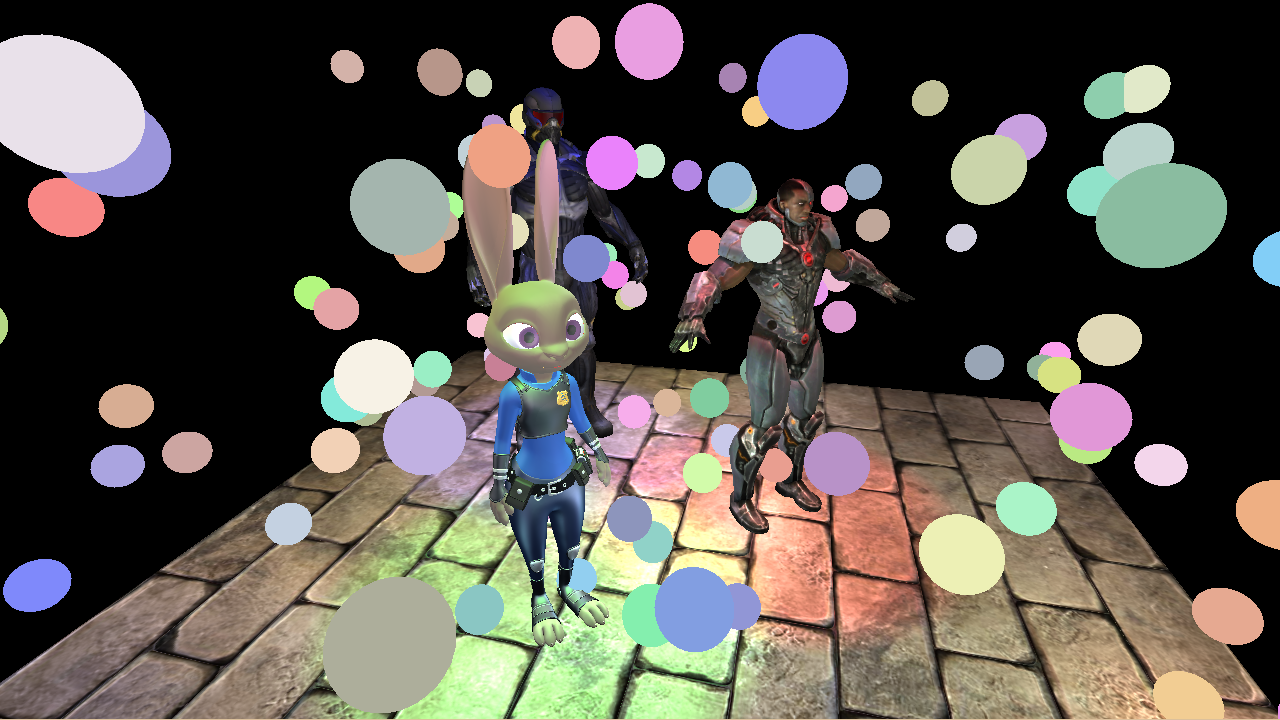
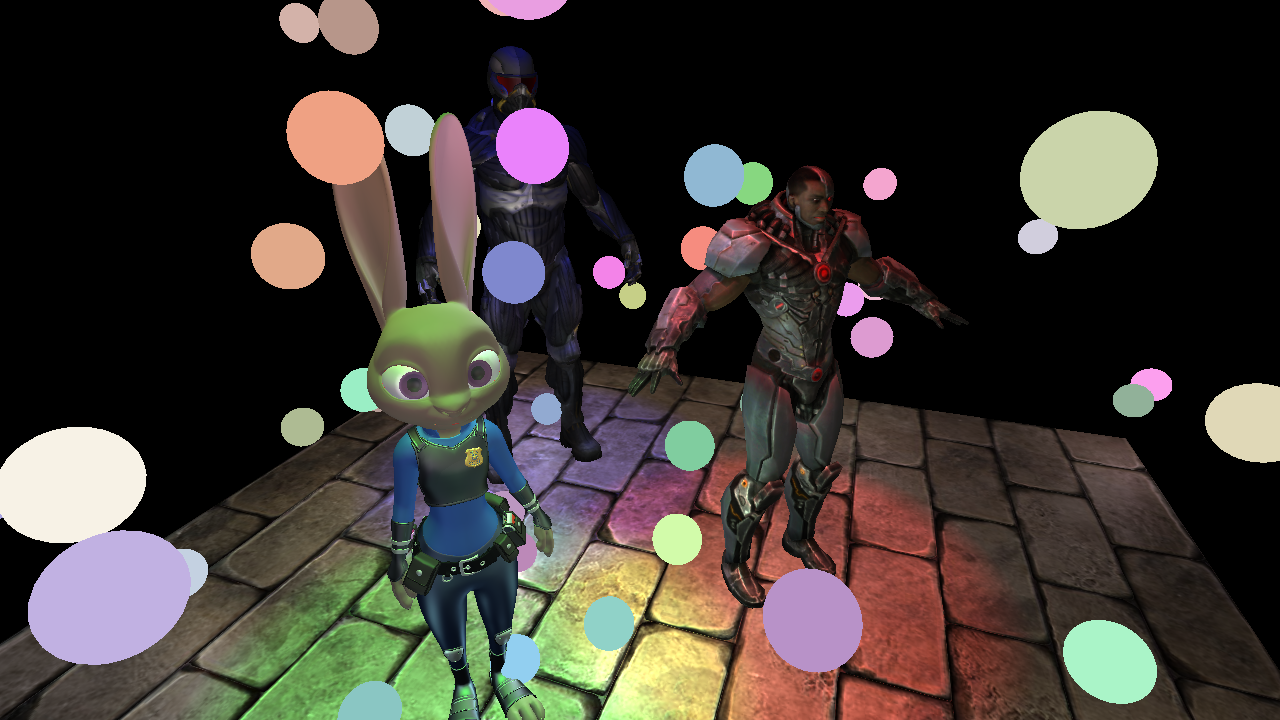
UPDATE: bug fix
Fix deferred shader bug. now we have a constant value in shader. not a
padding data(position.w)

diff --git a/src/RedFox/GL/rf_compositor_gl.cpp b/src/RedFox/GL/rf_compositor_gl.cpp
@@ -55,13 +55,9 @@ void RfCompositorGL::initialize(const RfSize& fboSize)
     _gBuffer->initialize(fboSize);
 
     _lightManager = RfLightManagerGL::getInstance();
-    _lightBulbShader = new RfShaderGL("shader/glsl/light_bulb.vert", "shader/glsl/light_bulb.frag");
-    _lightBulbModel = new RfModelGL("models/sphere/sphere.obj");
-    _lightBulb = new RfObjectGL(_lightBulbModel);
-    _lightBulb->scale(RfPoint3(0.1f, 0.1f, 0.1f));
 
     //*
-    const GLuint NR_LIGHTS = 128;
+    const GLuint NR_LIGHTS = 64;
     srand(7);
     for (GLuint i = 0; i < NR_LIGHTS; i++) {
 
@@ -96,10 +92,11 @@ void RfCompositorGL::initialize(const RfSize& fboSize)
     //*
     _testLight2 = new RfDirLightGL(
         RfVector3(0, -1, 0),
-        RfColor::make_RGBA32(0x3F, 0x3F, 0x3F, 0xFF)
+        RfColor::make_RGBA32(0x1F, 0x1F, 0x1F, 0xFF)
     );
     //*/
 
+    //*
     _testLightR = new RfSpotLightGL(
         RfPoint3(1, 8, 1),
         RfVector3(0, -1, 0),
@@ -117,6 +114,7 @@ void RfCompositorGL::initialize(const RfSize& fboSize)
         RfVector3(0, -1, 0),
         RfColor::make_RGBA32(0x00, 0x00, 0xFF, 0xFF)
     );
+    //*/
 }
 
 void RfCompositorGL::resize(const RfSize & fboSize)
@@ -171,9 +169,6 @@ void RfCompositorGL::prepareFrame(const RfSize& frameSize)
     glClearColor(0.0f, 0.0f, 0.0f, 1.0f);
     glClearDepth(1.0f);
     glClearStencil(0);
-
-    // IT IS NESSESARY.
-    glClear(GL_COLOR_BUFFER_BIT | GL_DEPTH_BUFFER_BIT | GL_STENCIL_BUFFER_BIT);
 
     RF_GL_CHECK_ERROR();
 }
@@ -253,14 +248,14 @@ void RfCompositorGL::postProcess()
     _quad->draw();
 
     //*
-    // 2.5. Copy content of geometry's depth buffer to default framebuffer's depth buffer
+    // Copy content of geometry's depth buffer to default framebuffer's depth buffer
     glBindFramebuffer(GL_READ_FRAMEBUFFER, _gBuffer->getId());
     glBindFramebuffer(GL_DRAW_FRAMEBUFFER, 0); // Write to default framebuffer
     glBlitFramebuffer(0, 0, 1280, 720, 0, 0, 1280, 720, GL_DEPTH_BUFFER_BIT, GL_NEAREST);
     glBindFramebuffer(GL_FRAMEBUFFER, 0);
     //*/
-    _currentShader = _lightBulbShader;
-    _lightManager->drawLightBulb(_lightBulbShader, _lightBulb);
+
+    _lightManager->drawLightBulb();
 
     RF_GL_CHECK_ERROR();
 }

diff --git a/src/RedFox/GL/rf_light_manager_gl.cpp b/src/RedFox/GL/rf_light_manager_gl.cpp
@@ -5,6 +5,7 @@ RfLightManagerGL - Implementation
 #include "zpd.h"
 
 #include "rf_state_gl.h"
+#include "rf_compositor_gl.h"
 
 using namespace zootopia;
 
@@ -46,6 +47,12 @@ RfLightManagerGL::RfLightManagerGL()
         nullptr);
     _spotLightBuffer->setIndex(S_LIGHT_BUFFER_INDEX);
     _spotLightBuffer->unbind();
+
+    // light bulb. (for debugging)
+    _lightBulbShader = new RfShaderGL("shader/glsl/light_bulb.vert", "shader/glsl/light_bulb.frag");
+    _lightBulbModel = new RfModelGL("models/sphere/sphere.obj");
+    _lightBulb = new RfObjectGL(_lightBulbModel);
+    _lightBulb->scale(RfPoint3(0.1f, 0.1f, 0.1f));
 }
 
 
@@ -74,17 +81,18 @@ void RfLightManagerGL::destroy()
 }
 
 
-void RfLightManagerGL::drawLightBulb(RfShaderGL* lightBulbShader, RfObjectGL* lightBulb)
+void RfLightManagerGL::drawLightBulb()
 {
-    lightBulbShader->use();
+    _lightBulbShader->use();
+    RfCompositorGL::_currentShader = _lightBulbShader;
 
     for (auto pointLight : _pointLights) {
-        lightBulb->setPosition(pointLight->getPosition());
-        lightBulb->scale(RfPoint3(0.2f, 0.2f, 0.2f));
+        _lightBulb->setPosition(pointLight->getPosition());
+        _lightBulb->scale(RfPoint3(0.2f, 0.2f, 0.2f));
         const RfVector3 lightColor = pointLight->getColor();
-        glUniform3f(glGetUniformLocation(lightBulbShader->getShaderProgObj(), "lightColor"),
+        glUniform3f(glGetUniformLocation(_lightBulbShader->getShaderProgObj(), "lightColor"),
             lightColor.x, lightColor.y, lightColor.z);
-        lightBulb->draw();
+        _lightBulb->draw();
     }
 }
 
@@ -110,7 +118,6 @@ void RfLightManagerGL::_insertLight(RfLight * light)
             0,
             sizeof(RfDirLight::Data) * _dirLights.size()
         );
-
         _dirLightBuffer->unbind();
 
         break;

diff --git a/include/RedFox/rf_compositor_gl.h b/include/RedFox/rf_compositor_gl.h
@@ -35,11 +35,12 @@ namespace zootopia {
 
     class RfCompositorGL : public RfCompositor {
 
-        // IS THIS GOOD?
+        // IS THIS GOOD? NOPE.
         // FOR _displayCamera, _deferredShader.
         friend class RfMeshGL;
         friend class RfObjectGL;
         friend class RfGridGL;
+        friend class RfLightManagerGL;
 
     public:
 
@@ -101,12 +102,6 @@ namespace zootopia {
         RfSpotLight*        _testLightB;
 
         RfLightManagerGL*   _lightManager;
-
-        // Light Bulb
-        RfShaderGL*     _lightBulbShader;
-
-        RfModelGL*      _lightBulbModel;
-        RfObjectGL*     _lightBulb;
 
     };
 

diff --git a/include/RedFox/rf_light_manager_gl.h b/include/RedFox/rf_light_manager_gl.h
@@ -37,7 +37,7 @@ namespace zootopia {
         static RfLightManagerGL* getInstance();
         void destroy();
 
-        void drawLightBulb(RfShaderGL* lightBulbShader, RfObjectGL* lightBulb);
+        void drawLightBulb();
 
     private:
 
@@ -48,6 +48,11 @@ namespace zootopia {
         RfShaderStorageBufferGL*    _dirLightBuffer;
         RfShaderStorageBufferGL*    _pointLightBuffer;
         RfShaderStorageBufferGL*    _spotLightBuffer;
+
+        // Light Bulb
+        RfShaderGL*     _lightBulbShader;
+        RfModelGL*      _lightBulbModel;
+        RfObjectGL*     _lightBulb;
 
     };
 

diff --git a/src/RedFox/GL/rf_point_light_gl.cpp b/src/RedFox/GL/rf_point_light_gl.cpp
@@ -28,9 +28,9 @@ RfPointLightGL::RfPointLightGL(
     _maxBrightness = std::max(std::max((_values.color.x), (_values.color.y)), (_values.color.z));
 
     // http://www.ogre3d.org/tikiwiki/tiki-index.php?page=-Point+Light+Attenuation
-    _values.constant = 1.0f; // should be 1.0f
-    _values.linear = 0.7f;
-    _values.quadratic = 1.8f;
+    _values.constant = 1.0f;
+    _values.linear = 0.22f;
+    _values.quadratic = 0.2f;
 
     _values.padding = 0;
 

diff --git a/src/RedFox/GL/rf_spot_light_gl.cpp b/src/RedFox/GL/rf_spot_light_gl.cpp
@@ -61,7 +61,7 @@ void RfSpotLightGL::setDirection(const RfVector3& direction)
     _update(
         sizeof(RfSpotLight::Data) * _values.index + sizeof(RfPoint3) + sizeof(RfScalar),
         sizeof(RfPoint3),
-        &_values.position
+        &_values.direction
     );
 }
 
